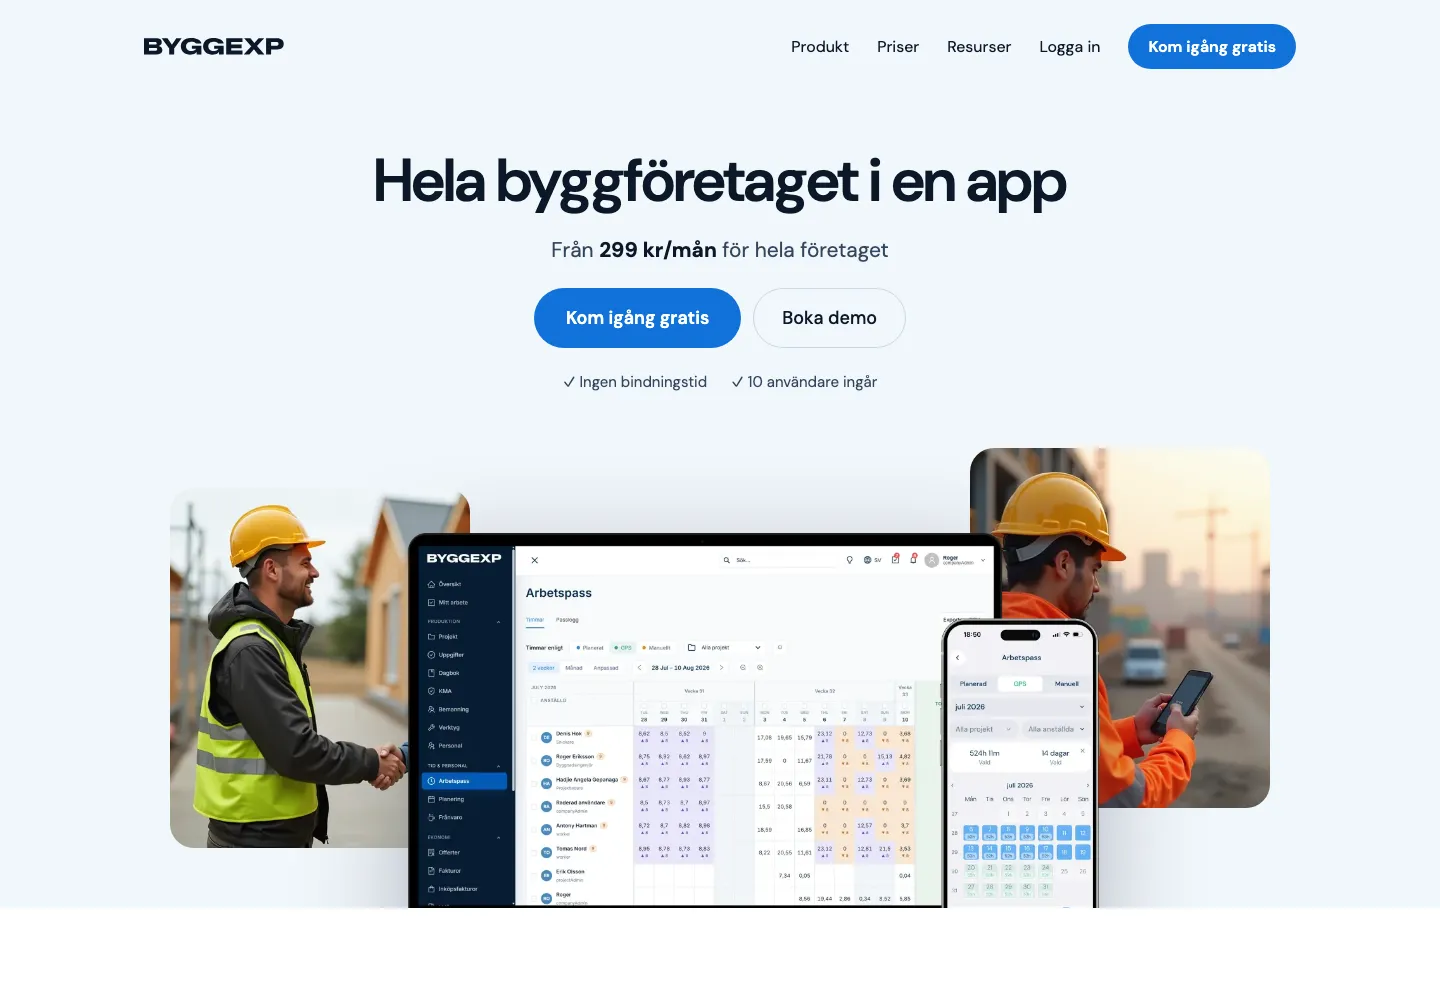
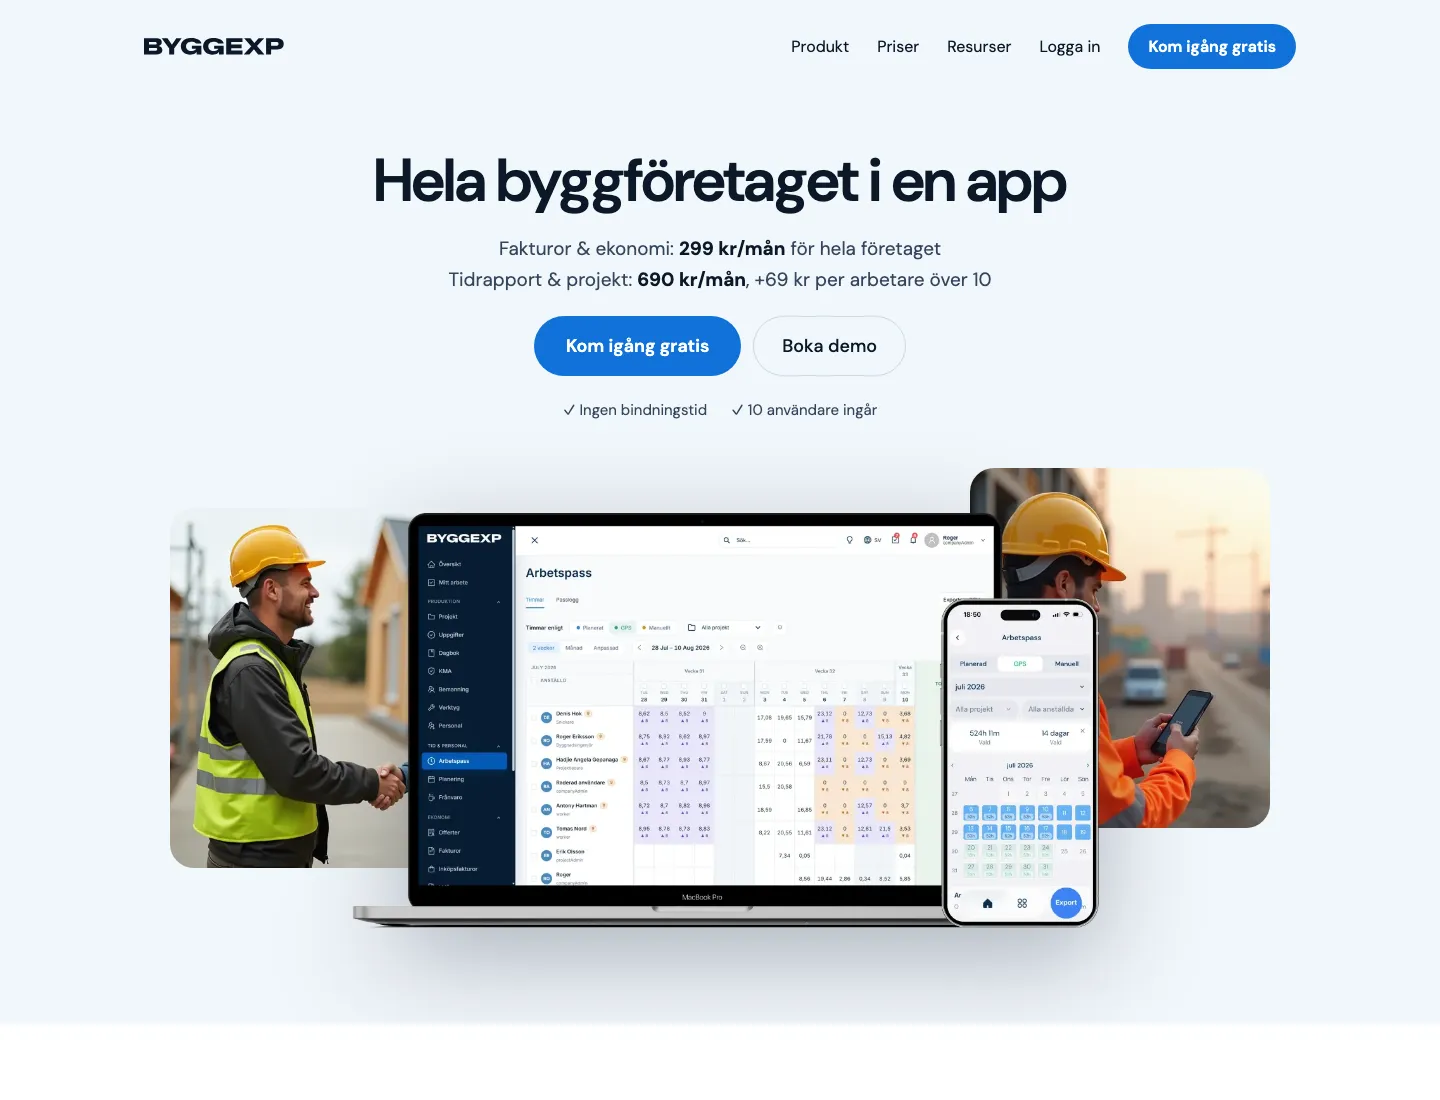
docs(design): Hero 2 vald – enheter synliga, pris förtydligat (299 fakturor / 690 +69 tidrapport)

diff --git a/docs/design/startsida-mockups-2026-10/canvas-src/Hero2.dc.html b/docs/design/startsida-mockups-2026-10/canvas-src/Hero2.dc.html
@@ -26,10 +26,13 @@ a{color:#1272d9}a:hover{color:#0b5bb3}
 <a href="#" style="background: #1272d9; color: #ffffff; text-decoration: none; padding: 12px 20px; border-radius: 999px; font-weight: 600;">Kom igång gratis</a>
 </nav>
 </header>
-<div style="max-width: 1200px; margin: 0 auto; box-sizing: border-box; padding: 56px 24px 0; display: flex; flex-direction: column; align-items: center; gap: 56px;">
+<div style="max-width: 1200px; margin: 0 auto; box-sizing: border-box; padding: 56px 24px 96px; display: flex; flex-direction: column; align-items: center; gap: 48px;">
 <div style="display: flex; flex-direction: column; gap: 24px; align-items: center; text-align: center;">
 <h1 style="margin: 0; max-width: 860px; font-size: clamp(38px, 4.4vw, 60px); line-height: 1.05; font-weight: 600; letter-spacing: -0.02em;">Hela byggföretaget i en app</h1>
-<p style="margin: 0; font-size: 21px; color: #33475e;">Från <strong style="color: #0a1828;">299 kr/mån</strong> för hela företaget</p>
+<div style="display: flex; flex-direction: column; gap: 6px; font-size: 19px; color: #33475e;">
+<span>Fakturor &amp; ekonomi: <strong style="color: #0a1828;">299 kr/mån</strong> för hela företaget</span>
+<span>Tidrapport &amp; projekt: <strong style="color: #0a1828;">690 kr/mån</strong>, +69 kr per arbetare över 10</span>
+</div>
 <div style="display: flex; flex-wrap: wrap; gap: 12px; justify-content: center;">
 <a href="#" style="background: #1272d9; color: #ffffff; text-decoration: none; padding: 18px 32px; border-radius: 999px; font-size: 18px; font-weight: 600;">Kom igång gratis</a>
 <a href="#" style="border: 1px solid #c9d8e8; color: #0a1828; text-decoration: none; padding: 17px 28px; border-radius: 999px; font-size: 18px; font-weight: 500;">Boka demo</a>
@@ -39,12 +42,12 @@ a{color:#1272d9}a:hover{color:#0b5bb3}
 <div style="position: relative; width: 100%; max-width: 1100px; height: 460px;">
 <img src="/_blob/b0154ba488d640eb72e34f9019aabb96" alt="Hantverkare skakar hand" style="position: absolute; left: 0; top: 40px; width: 300px; height: 360px; object-fit: cover; object-position: 30% center; border-radius: 24px;">
 <img src="/_blob/7d0f48e2efbf75f1c1e1aa12d1070ced" alt="Hantverkare med mobilen" style="position: absolute; right: 0; top: 0; width: 300px; height: 360px; object-fit: cover; object-position: 32% center; border-radius: 24px;">
-<img src="/_blob/b28a1e14499f1b5decb599ed32e24377" alt="ByggExp på dator och mobil" style="position: absolute; left: 50%; bottom: -40px; transform: translateX(-50%); width: 760px; max-width: 90%; height: auto; filter: drop-shadow(0 30px 50px rgba(10,24,40,0.3));">
+<img src="/_blob/b28a1e14499f1b5decb599ed32e24377" alt="ByggExp på dator och mobil" style="position: absolute; left: 50%; bottom: 0; transform: translateX(-50%); width: 760px; max-width: 90%; height: auto; filter: drop-shadow(0 30px 50px rgba(10,24,40,0.3));">
 </div>
 </div>
 </section>
 </x-dc>
-<script type="text/x-dc" data-dc-script data-props='{"$preview":{"width":1440,"height":1000}}'>
+<script type="text/x-dc" data-dc-script data-props='{"$preview":{"width":1440,"height":1100}}'>
 class Component extends DCLogic {
 renderVals() { return {}; }
 }

diff --git a/docs/design/startsida-mockups-2026-10/Hero-2.html b/docs/design/startsida-mockups-2026-10/Hero-2.html
@@ -26,10 +26,13 @@ a{color:#1272d9}a:hover{color:#0b5bb3}
 <a href="#" style="background: #1272d9; color: #ffffff; text-decoration: none; padding: 12px 20px; border-radius: 999px; font-weight: 600;">Kom igång gratis</a>
 </nav>
 </header>
-<div style="max-width: 1200px; margin: 0 auto; box-sizing: border-box; padding: 56px 24px 0; display: flex; flex-direction: column; align-items: center; gap: 56px;">
+<div style="max-width: 1200px; margin: 0 auto; box-sizing: border-box; padding: 56px 24px 96px; display: flex; flex-direction: column; align-items: center; gap: 48px;">
 <div style="display: flex; flex-direction: column; gap: 24px; align-items: center; text-align: center;">
 <h1 style="margin: 0; max-width: 860px; font-size: clamp(38px, 4.4vw, 60px); line-height: 1.05; font-weight: 600; letter-spacing: -0.02em;">Hela byggföretaget i en app</h1>
-<p style="margin: 0; font-size: 21px; color: #33475e;">Från <strong style="color: #0a1828;">299 kr/mån</strong> för hela företaget</p>
+<div style="display: flex; flex-direction: column; gap: 6px; font-size: 19px; color: #33475e;">
+<span>Fakturor &amp; ekonomi: <strong style="color: #0a1828;">299 kr/mån</strong> för hela företaget</span>
+<span>Tidrapport &amp; projekt: <strong style="color: #0a1828;">690 kr/mån</strong>, +69 kr per arbetare över 10</span>
+</div>
 <div style="display: flex; flex-wrap: wrap; gap: 12px; justify-content: center;">
 <a href="#" style="background: #1272d9; color: #ffffff; text-decoration: none; padding: 18px 32px; border-radius: 999px; font-size: 18px; font-weight: 600;">Kom igång gratis</a>
 <a href="#" style="border: 1px solid #c9d8e8; color: #0a1828; text-decoration: none; padding: 17px 28px; border-radius: 999px; font-size: 18px; font-weight: 500;">Boka demo</a>
@@ -39,7 +42,7 @@ a{color:#1272d9}a:hover{color:#0b5bb3}
 <div style="position: relative; width: 100%; max-width: 1100px; height: 460px;">
 <img src="img/anstalla-personal-byggforetag.webp" alt="Hantverkare skakar hand" style="position: absolute; left: 0; top: 40px; width: 300px; height: 360px; object-fit: cover; object-position: 30% center; border-radius: 24px;">
 <img src="img/enkelt-tidrapporteringssystem.webp" alt="Hantverkare med mobilen" style="position: absolute; right: 0; top: 0; width: 300px; height: 360px; object-fit: cover; object-position: 32% center; border-radius: 24px;">
-<img src="img/1arbetspass-1200.webp" alt="ByggExp på dator och mobil" style="position: absolute; left: 50%; bottom: -40px; transform: translateX(-50%); width: 760px; max-width: 90%; height: auto; filter: drop-shadow(0 30px 50px rgba(10,24,40,0.3));">
+<img src="img/1arbetspass-1200.webp" alt="ByggExp på dator och mobil" style="position: absolute; left: 50%; bottom: 0; transform: translateX(-50%); width: 760px; max-width: 90%; height: auto; filter: drop-shadow(0 30px 50px rgba(10,24,40,0.3));">
 </div>
 </div>
 </section>

diff --git a/docs/ideas/research-360-kamera-2026-10-01.md b/docs/ideas/research-360-kamera-2026-10-01.md
@@ -1,0 +1,27 @@
+# 360°-камера для проверки стройки по договору — исследование (2026-10-01)
+
+Пройти объект с 360°-камерой и снять его с привязкой к плану сегодня умеют готовые продукты. OpenSpace делает это за индивидуальную цену, которая зависит от годового объёма строительства. Скандинавский Dalux Field умеет то же через функцию SiteWalk: камера крепится на каску, снимки привязываются к плану и получают дату, их можно сравнить с BIM. Сверку с контрактом, сметой или платёжным графиком в проверенных источниках не обещает ни один из этих продуктов. Dalux явно ограничивается ручным сравнением с BIM. Технически свой MVP собрать можно: у Insta360 и Ricoh THETA есть SDK и API для управления съёмкой, а исследователи считают потребительские 360-камеры дешёвой заменой LiDAR. Трудная часть — сопоставление снимков со сметой. Её проверенные источники не покрывают, это остаётся НИОКР. Сегмент частных клиентов (Byggtorg) существует, но он офлайновый: Anticimex и Badrumshjälpen продают выездные проверки по фиксированной цене от 2 900 до 9 995 kr. Споры тоже есть: в ARN около 3 000 жалоб в год в категории Bostad. Рекомендация: в ByggExp делать лёгкую функцию «360-dokumentation / egenkontroll» (снимки на плане, отметки, размытие людей, отчёт) без обещаний ИИ-сверки со сметой. Для Byggtorg продавать сервис «oberoende kontroll» как человеческую услугу партнёров с фото-/360-протоколом, а не как автоматическую систему.
+
+## Findings
+
+- [high] OpenSpace продаёт только по индивидуальному запросу и ориентирован на крупных подрядчиков. Публичных цен нет. Цена зависит от годового объёма строительства (ACV) и тарифа (Core или Enterprise), а не от числа пользователей или проектов. В Core входит безлимитная съёмка со смартфона, 360-камеры и дрона, визуальное сравнение с BIM и инструменты для замечаний и RFI. ИИ-трекинг прогресса продаётся отдельно как дополнение OpenSpace Track.
+  Источники: https://www.openspace.ai/pricing/
+- [high] Dalux Field (Дания), самый близкий скандинавский аналог, имеет функцию Reality Capture/SiteWalk. Прогулку запускают на чертеже, 360-камера закреплена на каске. Снимки автоматически получают дату и привязку к месту в проекте, их можно сравнить с BIM и облаками точек. ИИ-распознавание прогресса и сверка с затратами или контрактом не заявлены.
+  Источники: https://www.dalux.com/solutions/reality-capture/, https://www.dalux.com/solutions/sitewalk/
+- [medium] Базовая 360-документация (прогулка с привязкой к плану) стала массовой функцией. Ценность и отличие от конкурентов — в автоматической сверке с графиком, сметой или контрактом. Ни у одного проверенного продукта такая сверка не подтверждена.
+  Источники: https://www.openspace.ai/pricing/, https://www.dalux.com/solutions/reality-capture/
+- [high] Железо и SDK для своего MVP есть. Android SDK Insta360 (X3/X4/X5, ONE RS и др.) даёт подключение, съёмку, загрузку файлов и экспорт. Доступ выдают по заявке, для передачи данных нужен Wi‑Fi, превью идёт через отдельный Media SDK, а репозиторий на GitHub больше не обновляется. У Ricoh THETA есть открытый Web API (OSC), Bluetooth API и USB API. RICOH360 Cloud API тоже выдают только по заявке.
+  Источники: https://github.com/Insta360Develop/Android-SDK, https://docs.ricoh360.com/
+- [medium] Потребительские 360-камеры со встроенным IMU в исследованиях считаются дешёвой альтернативой LiDAR для мониторинга прогресса, но по точности они ему уступают. Локализация через визуально-инерциальный SLAM всё ещё страдает дрейфом, поэтому бенчмарк Hilti/Trimble/Oxford 2026 года использует априорные данные с плана этажа.
+  Источники: https://arxiv.org/abs/2607.06464
+- [high] Снимки, на которых можно узнать людей, — это персональные данные по GDPR. Работодателю не стоит опираться на согласие сотрудников. Типичное основание — законный интерес (ст. 6(1)(f)) с тестом баланса и уведомлением на объекте. Kamerabevakningslagen касается стационарных камер. 360-камеру, которую несёт человек, этот закон, скорее всего, не охватывает, но GDPR действует.
+  Источники: https://www.edpb.europa.eu/sites/default/files/files/file1/edpb_guidelines_201903_video_devices_en_0.pdf, https://www.imy.se/vanliga-fragor-och-svar/vilka-regler-finns-det-for-att-satta-upp-en-bevakningskamera-pa-en-byggarbetsplats/
+- [high] Конфиденциальность нужно закладывать в дизайн. По EDPB необратимое размытие считается удалением данных. Но размытия одних лиц может не хватить: людей узнают по одежде, бейджам или персональному журналу объекта (personalliggare). В OpenSpace размытие включается только по запросу в поддержку, действует лишь на будущие съёмки и пропускает часть лиц. Заказчик — контролёр данных, вендор — обработчик. Заказчик должен уведомить людей на объекте, а снимать можно в нерабочее время.
+  Источники: https://www.edpb.europa.eu/sites/default/files/files/file1/edpb_guidelines_201903_video_devices_en_0.pdf, https://support.openspace.ai/hc/en-us/articles/41950625566611-Face-Blurring-in-OpenSpace
+- [high] Частные клиенты в Швеции уже платят за независимый контроль ремонта по фиксированной цене. Anticimex Byggsäkring: ванная 9 995 kr, кухня 5 295 kr, крыша 9 995 kr, фасад 9 995 kr, дренаж 5 295 kr. В пакет входят консультация до начала работ, проверки по ходу работ на соответствие договору и отраслевым нормам и итоговый протокол. Badrumshjälpen: проверка ванной 3 900 kr, точечная проверка 2 900 kr (с НДС, плюс выезд), протокол с фото в течение 48 часов. Это выездные проверки специалистом, а не автоматическая сверка по съёмке.
+  Источники: https://www.anticimex.se/byggsakring/, https://www.badrumshjalpen.se/
+- [medium] Спрос на разрешение споров с мастерами стабилен. В ARN в категорию Bostad поступило 3 617 жалоб в 2023 году, 3 065 в 2024-м и 3 057 в 2025-м. Это аргумент в пользу услуги «oberoende kontroll mot offert/avtal» на Byggtorg, но не все эти жалобы касаются ремонта.
+  Источники: https://www.arn.se/om-arn/statistik/
+
+## Ограничения
+Проверку прошли только данные по OpenSpace, Dalux, SDK, GDPR и шведским сервисам частного контроля. По Buildots, Doxel, Avvir, Cupix, HoloBuilder, StructionSite, Disperse, Reconstruct и Matterport подтверждённых утверждений нет: их точность, цены и сверку со сметой оценить нельзя. Нет проверенных данных о стоимости разработки MVP, о точности CV-детекции этапов работ и о том, применимы ли LLM или vision-модели для сопоставления со сметой. Не проверено, как это связано с AB04/ABT06, ÄTA и slutbesiktning. Цены вендоров и условия SDK могут меняться: репозиторий Insta360 на GitHub заморожен, доступ к SDK выдают по заявке. Юридические выводы о том, что kamerabevakningslagen не применяется к ручной 360-съёмке, — интерпретация, а не позиция IMY. Рекомендация «строить или интегрировать» отчасти опирается на синтез, а не на прямые источники.

diff --git a/docs/worklog.md b/docs/worklog.md
@@ -2,7 +2,7 @@
 
 ## 2026-10-11 — Startsida: mockups (inte byggt)
 - 3 helsidor (A foto-hero, B ljus, C pris först med kalkylator) + 4 hero-varianter med dator+mobil+folk. Allt i docs/design/startsida-mockups-2026-10/ (README, HTML, skärmdumpar) + canvas https://claude.ai/artifact/T1i1XP5UuNfLrD8W9nFe8S.
-- Rekommendation: helsida C + Hero 1. Ägaren har inte valt.
+- Ägaren valde **Hero 2** (ljus, centrerad). Pris förtydligat: 299 = Fakturor & ekonomi (hela företaget), 690 + 69/arbetare över 10 = Tidrapport & projekt. Helsida under hero ej vald.
 NÄSTA: ägarens val → bygg på stage → «ok» → live (riktig registrering, generate_lead, en GA-tagg).
 
 ## 2026-10-10 — Landningssida: 80 % och 60 % återställda (live)
